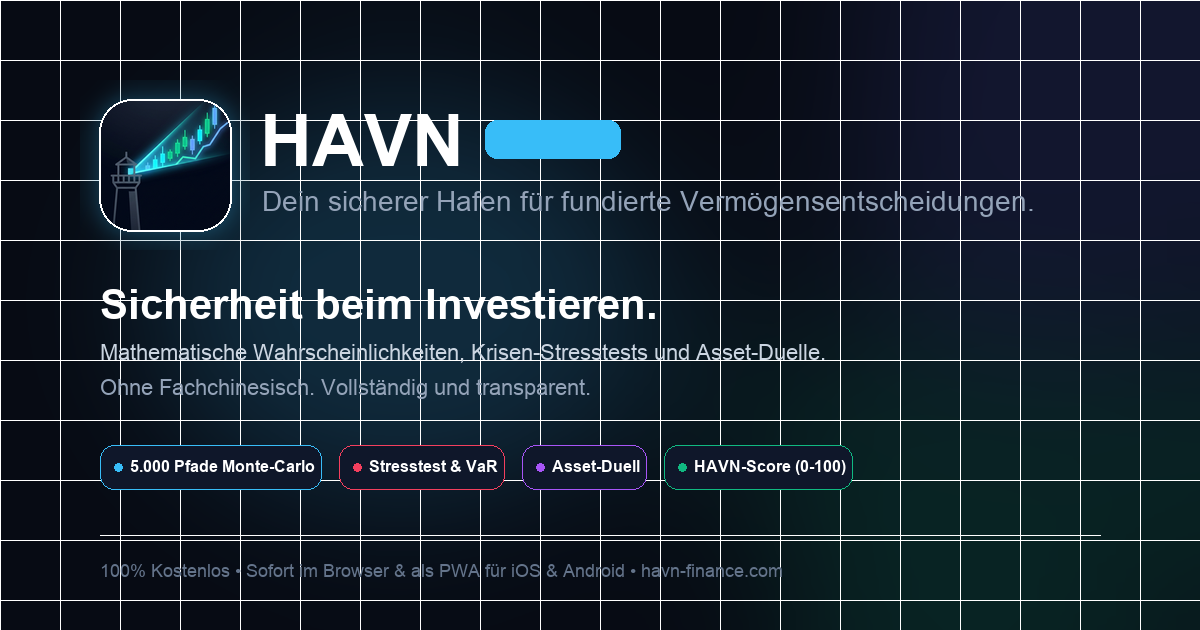
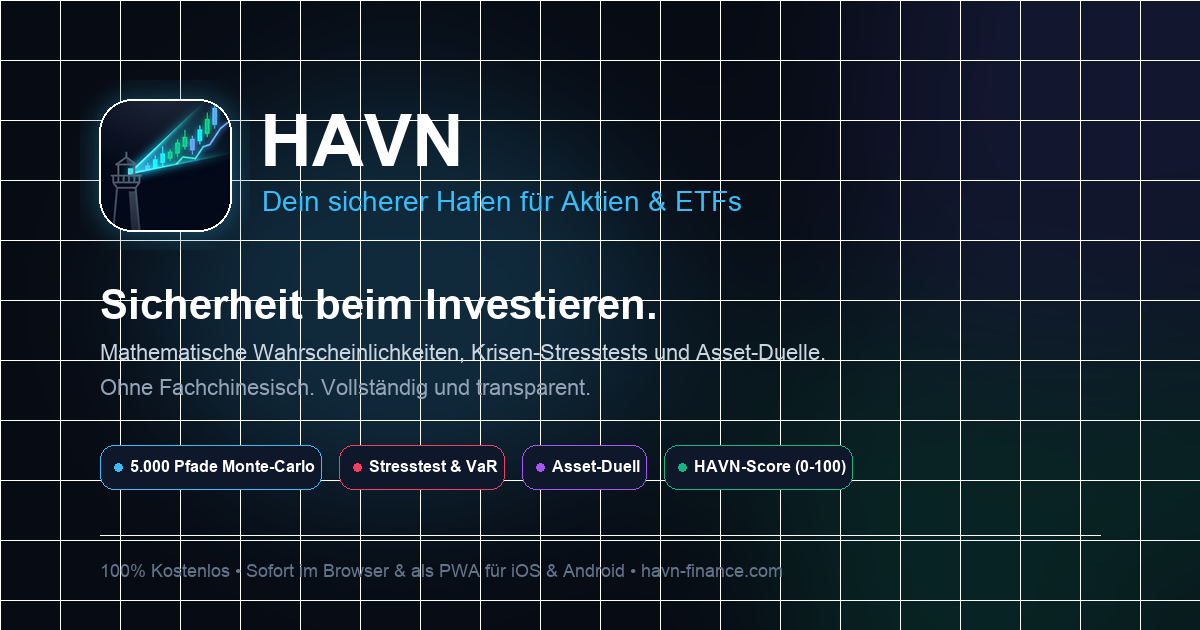
fix(copy): update title and slogan to 'Dein sicherer Hafen für Aktien & ETFs' across index.html, manifest.json, InstallPrompt, and og-image

Changed region(s): [[0.2158, 0.3016, 0.8633, 0.3619], [0.4008, 0.181, 0.5242, 0.2714]]

diff --git a/frontend/index.html b/frontend/index.html
@@ -5,8 +5,8 @@
     <meta name="viewport" content="width=device-width, initial-scale=1.0, maximum-scale=1.0, user-scalable=no, viewport-fit=cover" />
     
     <!-- Primäre SEO Meta-Tags -->
-    <title>HAVN — Quant Investment & Risikosteuerung für Aktien & ETFs</title>
-    <meta name="title" content="HAVN — Quant Investment & Risikosteuerung für Aktien & ETFs" />
+    <title>HAVN — Dein sicherer Hafen für Aktien & ETFs</title>
+    <meta name="title" content="HAVN — Dein sicherer Hafen für Aktien & ETFs" />
     <meta name="description" content="HAVN ist deine High-End Plattform für quantitative Aktien- & ETF-Analysen. Krisen-Stresstests, HAVN-Score, Value at Risk und interaktives Asset-Duell — ohne Fachchinesisch." />
     <meta name="keywords" content="Aktien Analyse, ETF Vergleich, Risiko Stresstest, Quant Finance, HAVN Score, Value at Risk, Krisensimulator, Finanzapp, MSCI World, S&P 500" />
     <meta name="author" content="HAVN Systems" />
@@ -34,7 +34,7 @@
     <meta property="og:type" content="website" />
     <meta property="og:url" content="https://havn-finance.com" />
     <meta property="og:site_name" content="HAVN Finance" />
-    <meta property="og:title" content="HAVN — Quant Investment & Risikosteuerung" />
+    <meta property="og:title" content="HAVN — Dein sicherer Hafen für Aktien & ETFs" />
     <meta property="og:description" content="Dein sicherer Hafen für quantitative Vermögensanalysen. Stresstests, Score-Radar und Asset-Duelle auf institutionellem Niveau." />
     <meta property="og:image" content="/og-image.png" />
     <meta property="og:image:width" content="1200" />
@@ -44,7 +44,7 @@
     <!-- Twitter / X -->
     <meta name="twitter:card" content="summary_large_image" />
     <meta name="twitter:url" content="https://havn-finance.com" />
-    <meta name="twitter:title" content="HAVN — Quant Investment & Risikosteuerung" />
+    <meta name="twitter:title" content="HAVN — Dein sicherer Hafen für Aktien & ETFs" />
     <meta name="twitter:description" content="Dein sicherer Hafen für quantitative Vermögensanalysen. Stresstests, Score-Radar und Asset-Duelle." />
     <meta name="twitter:image" content="/og-image.png" />
 
@@ -106,8 +106,8 @@
         <div style="color: #ffffff; font-size: 20px; font-weight: 900; letter-spacing: -0.5px; margin-bottom: 4px;">
           HAVN
         </div>
-        <div style="color: #38bdf8; font-size: 11px; font-weight: 700; letter-spacing: 1.5px; text-transform: uppercase;">
-          Quant Risk & Investment
+        <div style="color: #38bdf8; font-size: 11px; font-weight: 700; letter-spacing: 0.5px;">
+          Dein sicherer Hafen für Aktien & ETFs
         </div>
       </div>
 

diff --git a/frontend/src/components/InstallPrompt.jsx b/frontend/src/components/InstallPrompt.jsx
@@ -114,7 +114,7 @@ export default function InstallPrompt({ forceShow = false, onCloseManual }) {
     if (navigator.share) {
       try {
         await navigator.share({
-          title: 'HAVN — Quant Investment & Risikosteuerung',
+          title: 'HAVN — Dein sicherer Hafen für Aktien & ETFs',
           text: 'Dein sicherer Hafen für quantitative Vermögensanalysen.',
           url: window.location.href,
         });
